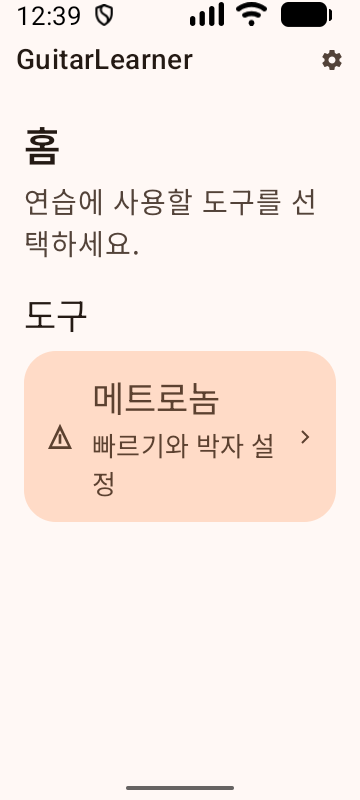
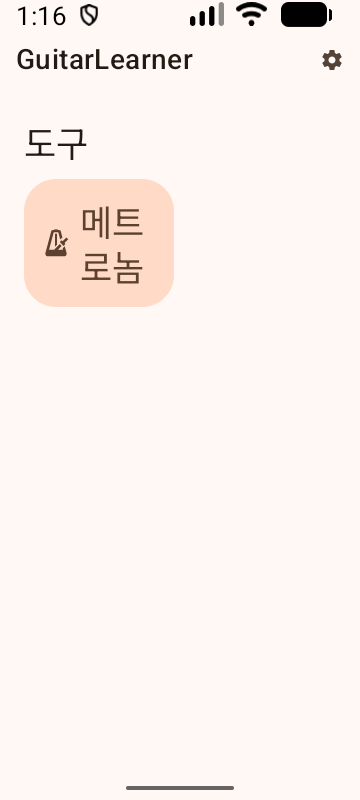
feat(home): simplify two-column feature cards

diff --git a/ui/src/main/kotlin/com/pekochan069/guitarlearner/ui/demo/DesignFoundationApp.kt b/ui/src/main/kotlin/com/pekochan069/guitarlearner/ui/demo/DesignFoundationApp.kt
@@ -5,6 +5,7 @@ import androidx.compose.foundation.layout.Arrangement
 import androidx.compose.foundation.layout.Box
 import androidx.compose.foundation.layout.Column
 import androidx.compose.foundation.layout.Row
+import androidx.compose.foundation.layout.Spacer
 import androidx.compose.foundation.layout.fillMaxSize
 import androidx.compose.foundation.layout.fillMaxWidth
 import androidx.compose.foundation.layout.heightIn
@@ -53,8 +54,8 @@ import com.pekochan069.guitarlearner.presentation.contract.ThemeOption
 import androidx.compose.ui.semantics.LiveRegionMode
 import androidx.compose.ui.semantics.liveRegion
 
-private val FoundationDestination.title: Int get() = when (this) {
-    FoundationDestination.Home -> R.string.home_title
+private val FoundationDestination.title: Int? get() = when (this) {
+    FoundationDestination.Home -> null
     is FoundationDestination.Feature -> when (id) {
         FeatureId.Metronome -> R.string.metronome_title
     }
@@ -127,26 +128,24 @@ fun DesignFoundationApp(
                         .padding(if (metronome) 12.dp else 24.dp),
                     verticalArrangement = Arrangement.spacedBy(if (metronome) 12.dp else 24.dp),
                 ) {
-                    Column(verticalArrangement = Arrangement.spacedBy(8.dp)) {
-                        Text(
-                            stringResource(destination.title),
-                            Modifier.testTag("destination_title").semantics { heading() },
-                            style = if (metronome) MaterialTheme.typography.headlineMedium
-                                else MaterialTheme.typography.headlineLarge,
-                        )
-                        if (!metronome) {
+                    destination.title?.let { title ->
+                        Column(verticalArrangement = Arrangement.spacedBy(8.dp)) {
                             Text(
-                                stringResource(when (destination) {
-                                    FoundationDestination.Home -> R.string.home_description
-                                    is FoundationDestination.Sample -> when (destination.id) {
+                                stringResource(title),
+                                Modifier.testTag("destination_title").semantics { heading() },
+                                style = if (metronome) MaterialTheme.typography.headlineMedium
+                                    else MaterialTheme.typography.headlineLarge,
+                            )
+                            if (destination is FoundationDestination.Sample) {
+                                Text(
+                                    stringResource(when (destination.id) {
                                         DevelopmentSample.Tuner -> R.string.tuner_subtitle
                                         DevelopmentSample.Gallery -> R.string.gallery_subtitle
-                                    }
-                                    is FoundationDestination.Feature -> R.string.metronome_subtitle
-                                }),
-                                style = MaterialTheme.typography.bodyLarge,
-                                color = MaterialTheme.colorScheme.onSurfaceVariant,
-                            )
+                                    }),
+                                    style = MaterialTheme.typography.bodyLarge,
+                                    color = MaterialTheme.colorScheme.onSurfaceVariant,
+                                )
+                            }
                         }
                     }
                     if (!metronome) CompactMetronomeControl(state.metronome, state.eventSink)
@@ -311,26 +310,28 @@ private fun HomeCatalog(state: FoundationState) {
         Column(Modifier.fillMaxWidth().testTag("category_" + group.category.name),
             verticalArrangement = Arrangement.spacedBy(12.dp)) {
             SectionHeading(group.category.label)
-            group.features.forEach { feature ->
-                when (feature) {
-                    FeatureId.Metronome -> Card(
-                        onClick = { state.eventSink(FoundationEvent.OpenFeature(feature)) },
-                        modifier = Modifier.fillMaxWidth().testTag("feature_" + feature.name),
-                        shape = MaterialTheme.shapes.extraLarge,
-                        colors = CardDefaults.cardColors(containerColor = MaterialTheme.colorScheme.secondaryContainer,
-                            contentColor = MaterialTheme.colorScheme.onSecondaryContainer),
-                    ) {
-                        Row(Modifier.fillMaxWidth().heightIn(min = 96.dp).padding(20.dp),
-                            horizontalArrangement = Arrangement.spacedBy(16.dp),
-                            verticalAlignment = Alignment.CenterVertically) {
-                            Icon(painterResource(R.drawable.ic_tempo), null, Modifier.size(32.dp))
-                            Column(Modifier.weight(1f), verticalArrangement = Arrangement.spacedBy(4.dp)) {
-                                Text(stringResource(R.string.metronome_title), style = MaterialTheme.typography.titleLarge)
-                                Text(stringResource(R.string.metronome_subtitle), style = MaterialTheme.typography.bodyMedium)
+            group.features.chunked(2).forEach { features ->
+                Row(Modifier.fillMaxWidth(), horizontalArrangement = Arrangement.spacedBy(12.dp)) {
+                    features.forEach { feature ->
+                        when (feature) {
+                            FeatureId.Metronome -> Card(
+                                onClick = { state.eventSink(FoundationEvent.OpenFeature(feature)) },
+                                modifier = Modifier.weight(1f).testTag("feature_" + feature.name),
+                                shape = MaterialTheme.shapes.extraLarge,
+                                colors = CardDefaults.cardColors(containerColor = MaterialTheme.colorScheme.secondaryContainer,
+                                    contentColor = MaterialTheme.colorScheme.onSecondaryContainer),
+                            ) {
+                                Row(Modifier.fillMaxWidth().padding(16.dp),
+                                    horizontalArrangement = Arrangement.spacedBy(8.dp),
+                                    verticalAlignment = Alignment.CenterVertically) {
+                                    Icon(painterResource(R.drawable.ic_tempo), null, Modifier.size(32.dp))
+                                    Text(stringResource(R.string.metronome_title), Modifier.weight(1f),
+                                        style = MaterialTheme.typography.titleLarge)
+                                }
                             }
-                            Icon(painterResource(R.drawable.ic_arrow_forward), null)
                         }
                     }
+                    if (features.size == 1) Spacer(Modifier.weight(1f))
                 }
             }
         }

diff --git a/app/src/androidTest/java/com/pekochan069/guitarlearner/FoundationPresentationTest.kt b/app/src/androidTest/java/com/pekochan069/guitarlearner/FoundationPresentationTest.kt
@@ -82,12 +82,19 @@ class FoundationPresentationTest {
         val metronome = FakeMetronome()
         val circuit = testCircuit(FakeAppearance(), metronome, developmentSamplesEnabled = false)
         compose.setContent {
-            GuitarLearnerTheme(false) {
-                CircuitCompositionLocals(circuit) { CircuitContent(FoundationScreen) }
+            CompositionLocalProvider(LocalDensity provides Density(LocalDensity.current.density, 2f)) {
+                GuitarLearnerTheme(false) {
+                    CircuitCompositionLocals(circuit) { CircuitContent(FoundationScreen) }
+                }
             }
         }
+        compose.onNodeWithTag("destination_title").assertDoesNotExist()
         compose.onNodeWithTag("category_Tools").assertExists()
         compose.onNodeWithTag("feature_Metronome").assertHasClickAction().assertIsDisplayed()
+        val category = compose.onNodeWithTag("category_Tools").getUnclippedBoundsInRoot()
+        val tile = compose.onNodeWithTag("feature_Metronome").getUnclippedBoundsInRoot()
+        assertEquals((category.width.value - 12f) / 2, tile.width.value, 1f)
+        assertEquals(category.left.value, tile.left.value, 1f)
         compose.onNodeWithTag("category_Training").assertDoesNotExist()
         compose.onNodeWithTag("category_Learning").assertDoesNotExist()
         compose.onNodeWithTag("sample_Tuner").assertDoesNotExist()

diff --git a/docs/home-menu-verification.md b/docs/home-menu-verification.md
@@ -4,13 +4,13 @@ Verified on 2026-10-04 against [issue #8](https://github.com/pekochan069/GuitarL
 
 ## Behavior
 
-Home lists usable features by category. Initially it shows Tools and Metronome; empty Training and Learning categories are hidden. Up and Back return features to Home after dismissing the current overlay. Shared settings remain in the top app bar. Tuner and component examples have a separate development entry enabled only by the debug app capability.
+Home lists usable features by category in two columns. Cards show a theme-tinted icon to the left of their title, with no Home introduction or card description. Initially it shows Tools and Metronome; empty Training and Learning categories are hidden. Up and Back return features to Home after dismissing the current overlay. Shared settings remain in the top app bar. Tuner and component examples have a separate development entry enabled only by the debug app capability.
 
 One persistent presenter owns typed destinations and an exclusive settings/presets/overwrite overlay. Stable saved identifiers normalize unavailable destinations to Home. Home keeps its scroll state outside destination content. The app handles platform Back and notification input; rendering still receives contract state and emits events. No dependencies or audio behavior changed.
 
 On other screens, the compact metronome displays the actual playing configuration rather than selected pending edits. Open does not start or reset playback. Stop waits for the reported playback state; a failed Stop retains the controller and exposes an error. Preparing, interrupted and failed states remain distinguishable, with access to the metronome even when no controller remains.
 
-## Automated evidence
+## Automated evidence for the navigation implementation
 
 Checks used the committed dependency stack in an isolated worktree. The original checkout's IDE, dependency and wrapper edits were preserved.
 
@@ -28,7 +28,7 @@ Independent review found a process-restoration defect that ordinary activity rec
 
 The final complete API 37 connected run passed: JUnit XML reports 48 cases, 47 passes, zero failures and one opt-in acoustic skip. Coverage includes production Home visibility, unavailable destination restoration, retained Home scroll, actual/pending playback, failed Stop, truthful preparation, late preset completion, overlay Back order, locale/theme/sample restoration, grid/preset behavior, native playback and actual notification PendingIntent task/activity/service/media-session reuse.
 
-## Installed UI and release evidence
+## Installed UI and release evidence for the navigation implementation
 
 The final release APK was signed locally with the debug key for installation; its application flags were not debuggable. Release settings had no development section. An explicit sample action and destination extra left Home unchanged. No build signing configuration changed.
 
@@ -38,18 +38,35 @@ System Back dismissed an overwrite confirmation, then the preset sheet, then the
 
 After inspection, the debug APK was reinstalled. Device size/density, 100% font, rotation and automatic rotation were restored, along with Korean/light appearance and the previously visible 100 BPM, 8/8 selection. Playback was stopped. Raw XML, logs, design/review reports and signed local release evidence remain in `%TEMP%/GuitarLearner-home-8-20261004-201742`.
 
-| Installed release view | Evidence |
+| Installed release view before the Home card revision | Evidence |
 | --- | --- |
-| Korean/light Home | ![Usable Tools catalog](screenshots/home-menu/home-ko-light.png) |
 | English/dark, playing at 200% text | ![Actual configuration and wrapped actions](screenshots/home-menu/playing-en-large.png) |
 | English/dark landscape, 200% text | ![Scrollable compact controller with reachable actions](screenshots/home-menu/playing-landscape-large.png) |
-| Korean/light Home, 200% text | ![Large localized Home card](screenshots/home-menu/home-ko-large.png) |
 | Korean/light settings landscape, 200% text | ![Language options reached by scrolling](screenshots/home-menu/settings-landscape-large.png) |
+
+## Follow-up Home card revision
+
+The user requested a fixed two-column grid, removal of the Home heading and introductory text, removal of the card description, and the title to the right of the supplied Material Design Icons metronome icon. Each category now uses two equally weighted slots; the sole current feature occupies the first slot. The title wraps within its slot without truncation. The compact metronome still spans the available width.
+
+The exact supplied SVG path is preserved in a 32 dp VectorDrawable with a 24-unit viewport and the existing theme tint. Its attribution and conversion notice remain in the source. The [upstream notice](https://github.com/Templarian/MaterialDesign/blob/master/LICENSE) and full Apache 2.0 text are bundled in `assets/licenses/material-design-icons.txt`; the debug APK was inspected to confirm that entry.
+
+After the final icon/title revision, UI and app lint, `verifyModuleBoundaries`, debug/test APK assembly and release assembly passed. Four focused API 37 `FoundationPresentationTest` journeys passed: production Home with 200% text and half-width card bounds, retained Home scroll/restoration, actual playback with failed Stop, and truthful preparation controls. The earlier complete navigation suite above is baseline evidence; it was not rerun for this rendering-only revision. Instrumentation ran explicitly on `emulator-5554`, without running tests on the connected phone.
+
+Installed debug inspection covered 360 × 800 dp in Korean and English with normal and 200% text, plus English at 800 × 360 dp with 200% text. All title text remained readable through wrapping. The final APK was also installed with `adb install -r` on the connected Samsung SM-S948N; its actual Home screen confirmed the removed text, two-column card width, supplied icon and title placement. Physical-device evidence is limited to installation, launch and Home appearance.
+
+Emulator size/density, 100% font, rotation and automatic rotation were restored. Korean/light appearance was restored; this revision inspection did not edit metronome controls or start playback. Build logs, focused instrumentation output and raw device captures remain in `%TEMP%/GuitarLearner-home-8-20261004-201742` under `home-icon-title-*`.
+
+| Final installed debug view | Evidence |
+| --- | --- |
+| Korean/light Home | ![Two-column Home with icon beside title](screenshots/home-menu/home-ko-light.png) |
+| Korean/light Home, 200% text | ![Wrapping Korean title beside icon](screenshots/home-menu/home-ko-large.png) |
+| English/light Home, 200% text | ![Wrapping English title beside icon](screenshots/home-menu/home-en-large.png) |
+| English/light landscape, 200% text | ![Two-column Home in landscape](screenshots/home-menu/home-en-landscape-large.png) |
 
 ## Review
 
 Three independent design lanes selected typed destinations in one presenter; the synthesis adopted an exclusive overlay state and app-owned platform input. Independent comment and correctness reviews plus parent review covered the diff. All lanes used the configured Codex model, with no model-family diversity.
 
-Model the Domain shaped destinations and overlays. Laziness Protocol kept one presenter and existing audio ownership. Separate Before Serializing Shared State kept implementation and device ownership distinct. Test Behavior and Prove It Works required real task, notification, release and UI journeys. Code and evidence form separate verifiable commits.
+Model the Domain shaped destinations and overlays. Laziness Protocol kept one presenter and existing audio ownership. Separate Before Serializing Shared State kept implementation and device ownership distinct. Test Behavior and Prove It Works required real task, notification, release and UI journeys. The initial code and evidence form separate verifiable commits.
 
-Physical-device behavior, pre-API-33 locale behavior and spoken TalkBack output remain unverified. Accessibility evidence covers labels, semantics, touch bounds and manual screen inspection. Acoustic recording is opt-in and skipped; this change makes no hardware timing claim.
+Physical-device playback/navigation beyond Home appearance, pre-API-33 locale behavior and spoken TalkBack output remain unverified. Accessibility evidence covers labels, semantics, touch bounds and manual screen inspection. Acoustic recording is opt-in and skipped; this change makes no hardware timing claim.
